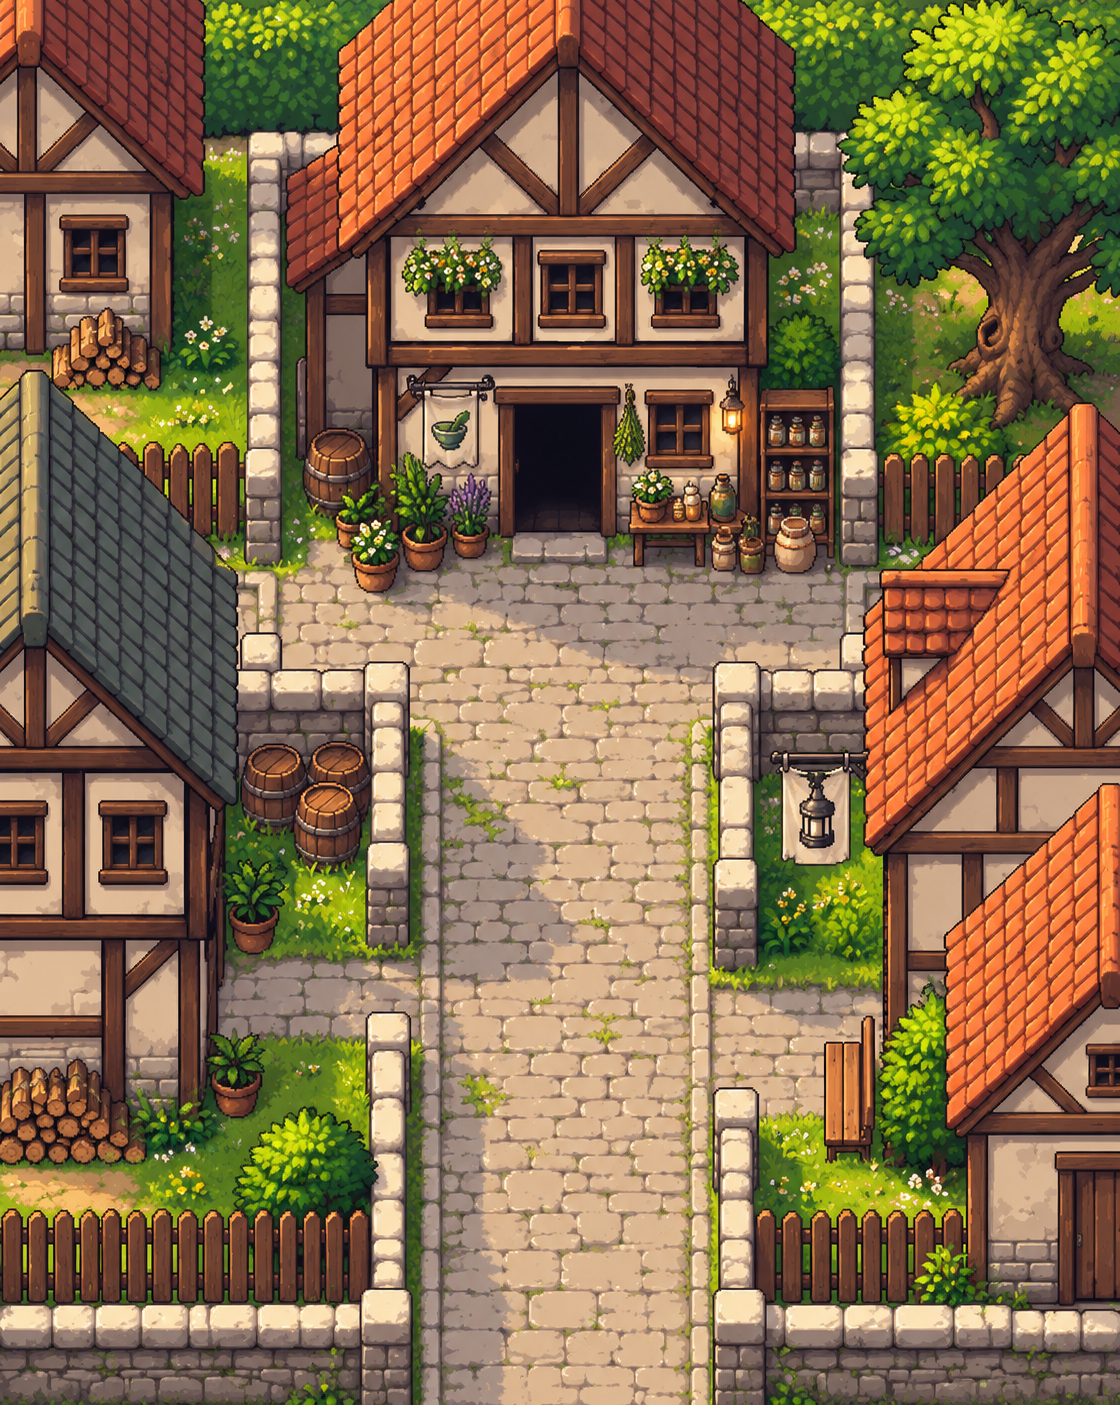
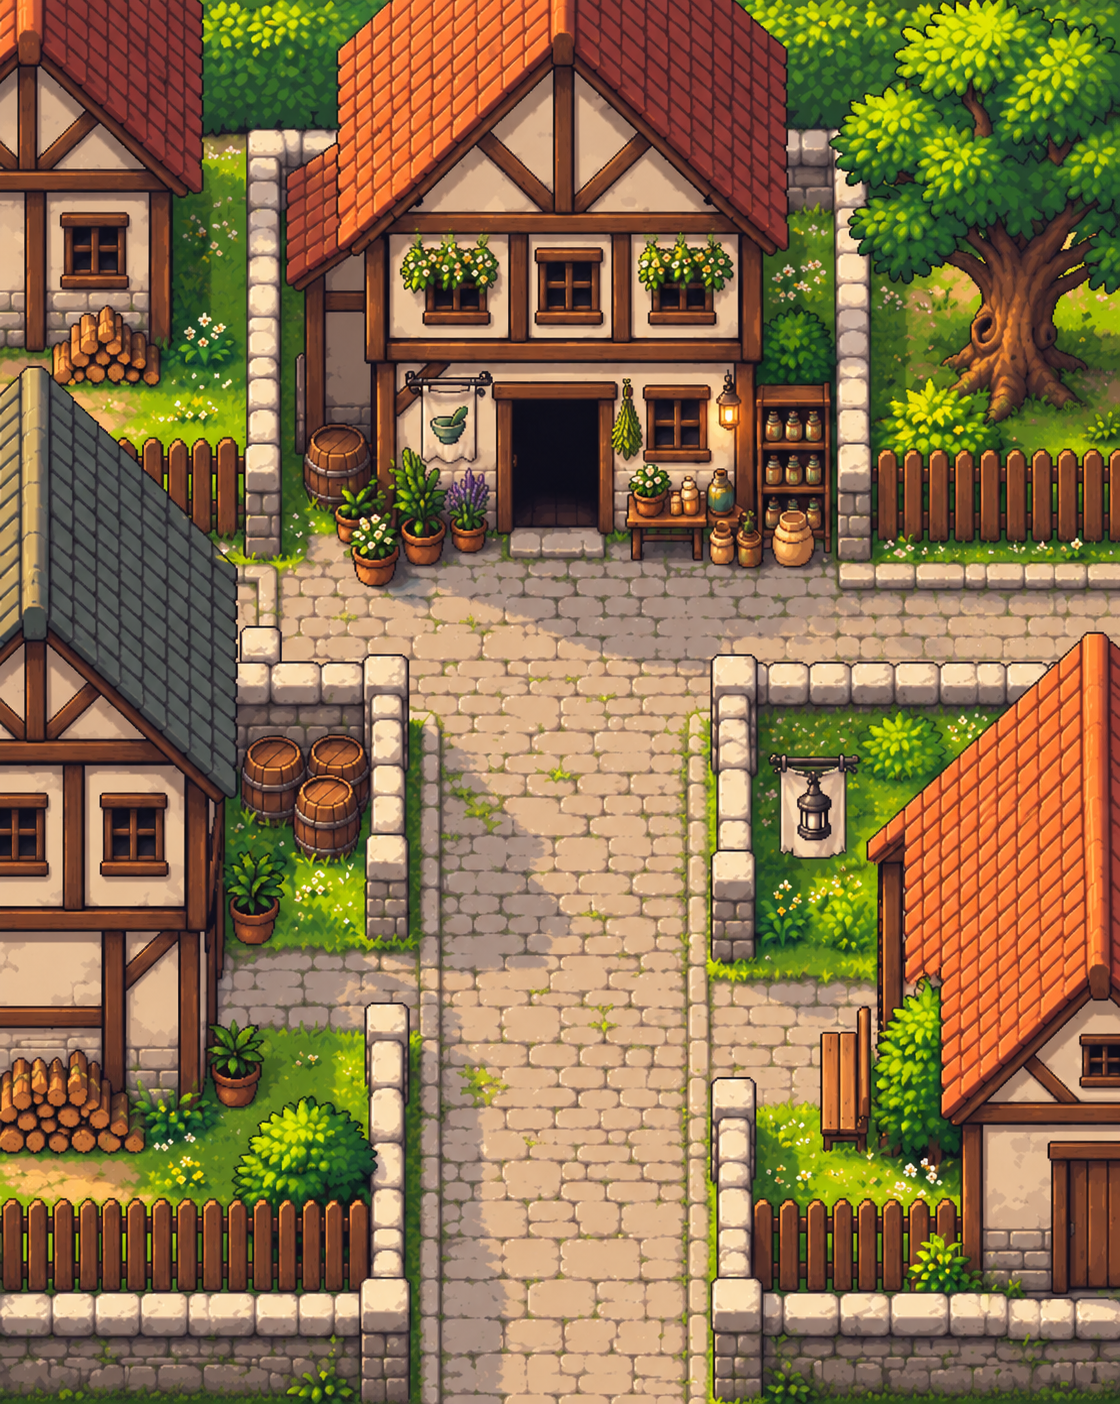
New apothecary-street and farm backgrounds (same geometry), botica-farm link on the map; miner points to the quarry camp; resting stonecutter replaces the man seen from behind

diff --git a/src/game/dialogue/chapter1Patient3Dialogues.ts b/src/game/dialogue/chapter1Patient3Dialogues.ts
@@ -25,6 +25,18 @@ const conversation = (
 // ---- the injured miner -----------------------------------------------------
 
 // Not examined yet: the conversation IS the examination.
+// Right after the examination the miner asks if the Doctor needs coal and points him to the quarry
+// camp, where the seated stonecutter gives it (2026-11-16, Kilian). New text, awaiting his review.
+export const INJURED_MINER_COAL_CALL_ID = "chapter1.mine.injuredMiner.coalCalled";
+export const INJURED_MINER_INSTANCE_ID = "mine-interior-injured-miner-01";
+export const injuredMinerCoalHint = conversation("mine.injuredMiner.coalHint", [
+  subject(
+    "¿Le hace falta carbón para el ungüento? Vaya al campamento de la cantera; allí se lo darán.",
+    "Do you need coal for the ointment? Go to the quarry camp; they'll give it to you there.",
+  ),
+  doctor("Gracias, iré a verlos.", "Thank you, I'll go and see them."),
+]);
+
 export const injuredMinerExam = conversation("mine.injuredMiner.exam", [
   subject("Ah... despacio. La pierna.", "Ah... easy. My leg."),
   doctor(
@@ -202,8 +214,8 @@ export const mountainMinerCoalReady = conversation("quarry.backMan.coal", [
   subject("¿Otra vez?", "Again?"),
   doctor("¿Otra vez? ¡Vaya!", "Again? Oh dear!"),
   subject(
-    "Le pasa por no saber cuándo parar. Yo, al menos, miro cómo trabajan los demás.",
-    "That's what comes of not knowing when to stop. I, at least, just watch the others work.",
+    "Le pasa por no saber cuándo parar. Yo, al menos, me siento cuando toca.",
+    "That's what comes of not knowing when to stop. I, at least, sit down when it's time.",
   ),
   doctor(
     "Eso ya me lo había parecido. Y por eso mismo necesito tu ayuda.",
@@ -234,8 +246,8 @@ export const mountainMinerCoalDone = conversation(
   "quarry.backMan.coalDone",
   [
     subject(
-      "Cuide de mi amigo. Y dígale que la próxima vez mire dónde pisa. Yo, desde aquí, lo vería venir.",
-      "Look after my friend. And tell him to watch where he steps next time. From here, I'd see it coming.",
+      "Cuide de mi amigo. Y dígale que la próxima vez mire dónde pisa. Yo, desde el suelo, lo vería venir.",
+      "Look after my friend. And tell him to watch where he steps next time. From down here, I'd see it coming.",
     ),
   ],
 );

diff --git a/src/game/dialogue/chapter1Dialogues.ts b/src/game/dialogue/chapter1Dialogues.ts
@@ -139,8 +139,8 @@ export const chapter1AmbientDialogues: Record<string, LocalizedConversation> =
         "By any chance, do you know where I could get a little clean coal?",
       ),
       subject(
-        "Pregunte al de la cantera, el que mira sin trabajar. Siempre guarda un poco para su hoguera.",
-        "Ask the one at the quarry, the man who watches and doesn't work. He always keeps a little for his fire.",
+        "Pregunte en el campamento de la cantera, al que descansa sentado en el suelo. Siempre guarda un poco para su hoguera.",
+        "Ask at the quarry camp, the one resting on the ground. He always keeps a little for his fire.",
       ),
     ]),
     // Witch at the bar: her real conversations live in storyInteractions.ts.
@@ -260,15 +260,17 @@ export const chapter1AmbientDialogues: Record<string, LocalizedConversation> =
         "An apple a day. For the rest, you're the doctor.",
       ),
     ]),
+    // The stonecutter resting on the ground (2026-11-16: he replaced the man seen from behind). New
+    // text, awaiting Kilian's review.
     conversation("chapter1.quarry.backMan", [
       subject(
-        "No se vuelva, doctor. Estoy mirando cómo parten la piedra y me da vergüenza que se note.",
-        "Don't turn me around, doctor. I'm watching them split the stone and I'd hate for it to show.",
+        "Perdone que no me levante, doctor. Hoy la piedra ha ganado.",
+        "Forgive me for not getting up, doctor. The stone won today.",
       ),
-      doctor("¿Mirar trabajar a otros es un oficio?", "Is watching others work a trade?"),
+      doctor("¿Tan duro ha sido el día?", "Has the day been that hard?"),
       subject(
-        "Es el único que llevo bien. Y ellos trabajan más contentos con público.",
-        "It's the only one I'm good at. And they work happier with an audience.",
+        "Duro, no. Largo. Por eso me siento, a ver si se acorta.",
+        "Not hard: long. That's why I sit down, to see if it gets shorter.",
       ),
     ]),
     // The quarry camp (2026-11-15). New text, awaiting Kilian's review.

diff --git a/src/game/new-world-map/newWorldVisuals.ts b/src/game/new-world-map/newWorldVisuals.ts
@@ -37,10 +37,12 @@ export const NEW_WORLD_VISUALS: DevScene[] = [
     id: "apothecary-street",
     label: "Calle Botica (nuevo mundo)",
     backgroundSrc: `${DIR}/apothecary-street-background.png`,
+    // 2026-11-16: repainted with the new road to the east (1120x1404; it was 1120x1405). Same
+    // geometry: the logical world keeps its size.
     assetWidth: 1120,
-    assetHeight: 1405,
+    assetHeight: 1404,
     initialAssetX: 555,
-    initialAssetY: 1260,
+    initialAssetY: 1259,
     logicalUnitsPerAssetPixel: 0.65,
     colliders: apothecaryStreetColliders,
   },
@@ -103,11 +105,14 @@ export const NEW_WORLD_VISUALS: DevScene[] = [
     id: "farm",
     label: "Granja (nuevo mundo)",
     backgroundSrc: `${DIR}/farm-background.png`,
-    assetWidth: 1581,
-    assetHeight: 945,
-    initialAssetX: 90,
-    initialAssetY: 850,
-    logicalUnitsPerAssetPixel: 1.2,
+    // 2026-11-16: repainted with the cobbled road to the west (1624x969; it was 1581x945, 2.7%
+    // smaller). The scale is lowered so the logical HEIGHT stays 1134 (1.2 * 945 / 969; the width
+    // grows 3 units): every collider, transition and decor keeps its place.
+    assetWidth: 1624,
+    assetHeight: 969,
+    initialAssetX: 92,
+    initialAssetY: 873,
+    logicalUnitsPerAssetPixel: 1.1703,
     colliders: farmColliders,
   },
   {

diff --git a/src/game/world/GameWorld.tsx b/src/game/world/GameWorld.tsx
@@ -15,7 +15,8 @@ import {
 
 import { ApothecaryScene } from "../apothecary/ApothecaryScene";
 import { BARTENDER_CALL_ID, BARTENDER_INSTANCE_ID, bartenderCall } from "../dialogue/chapter1TavernDialogues";
-import { TAVERN_PATIENT_ID } from "../patients/chapter1Patients";
+import { INJURED_MINER_ID, TAVERN_PATIENT_ID } from "../patients/chapter1Patients";
+import { INJURED_MINER_COAL_CALL_ID, INJURED_MINER_INSTANCE_ID, injuredMinerCoalHint } from "../dialogue/chapter1Patient3Dialogues";
 import { playSound } from "../audio/audioPlayer";
 import { useLoopMusic } from "../audio/useLoopMusic";
 import { BookOverlay } from "../book/BookOverlay";
@@ -1152,6 +1153,10 @@ export function GameWorld({
       // The bartender calls the Doctor over (she has heard he needs milk); once.
       claimFlag(BARTENDER_CALL_ID);
       startDialogue(localizeConversation(bartenderCall, language, BARTENDER_INSTANCE_ID));
+    } else if (patientId === INJURED_MINER_ID && !claimedRewardsRef.current.has(INJURED_MINER_COAL_CALL_ID)) {
+      // The miner points the Doctor to the quarry camp for coal; once.
+      claimFlag(INJURED_MINER_COAL_CALL_ID);
+      startDialogue(localizeConversation(injuredMinerCoalHint, language, INJURED_MINER_INSTANCE_ID));
     }
   }, [language, startDialogue, startTransition, claimFlag]);
 

diff --git a/src/game/decor/decorAssets.ts b/src/game/decor/decorAssets.ts
@@ -879,6 +879,25 @@ const BASE_DECOR_ASSETS: DecorAsset[] = [
     defaultCollider: { offsetX: -15, offsetY: -80, width: 27, height: 67 },
   },
   {
+    id: "stonecutter-resting",
+    label: "Stonecutter resting on the ground",
+    category: "people",
+    sprite: {
+      // 2026-11-16 (PixelLab, from the stool stonecutter): sits on the bare ground resting, eyes closed.
+      // Replaces the man seen from behind at the quarry camp (he gives the coal). Five pictures played
+      // back and forth (0 1 2 3 4 3 2 1): a slow breath, the head lifts a little.
+      frames: [0, 1, 2, 3, 4, 3, 2, 1].map((i) => `/game/npcs/stonecutter-resting/idle/${i}.png`),
+      frameWidth: 96,
+      frameHeight: 96,
+      fps: 4,
+      loop: true,
+    },
+    anchor: { x: 0.5, y: 1 },
+    defaultScale: 1,
+    // Silhouette of frame 0 (x22-73 y22-79 of the 96x96 frame).
+    defaultCollider: { offsetX: -26, offsetY: -74, width: 52, height: 58 },
+  },
+  {
     id: "villager-back-woman",
     label: "Villager woman from behind",
     category: "people",

diff --git a/src/game/compositions/chapter-1.interactions.ts b/src/game/compositions/chapter-1.interactions.ts
@@ -147,10 +147,11 @@ export const chapter1Interactions: Record<string, DecorInteraction> = {
     interactionId: "chapter1.tavernStreet.seller",
     zone: { offsetX: 122, offsetY: -35, width: 119, height: 27 },
   },
-  // The man standing with his back to us at the quarry (villager-back-man).
+  // The stonecutter resting on the ground at the quarry camp (he gives the coal; he used to be the
+  // man seen from behind, hence the id). The zone is the seated man's silhouette grown by 16.
   "quarry-villager-back-man-01": {
     interactionId: "chapter1.quarry.backMan",
-    zone: { offsetX: -33, offsetY: -95, width: 60, height: 111 },
+    zone: { offsetX: -42, offsetY: -90, width: 84, height: 106 },
   },
   // The rest of the quarry camp (2026-11-15). Zones by analogy with the same sprites elsewhere
   // (the woman is the tavern street's villager-woman-02, the shovel man stands like the back man, the

diff --git a/src/game/new-world-map/newWorldCompositions.ts b/src/game/new-world-map/newWorldCompositions.ts
@@ -477,7 +477,9 @@ export const newWorldChapter1Compositions: DecorComposition[] = [
       },
       {
         instanceId: "quarry-villager-back-man-01",
-        assetId: "villager-back-man",
+        // (the id keeps its old name: it is the coal giver. Since 2026-11-16 he is the stonecutter
+        // resting on the ground, no longer the man seen from behind.)
+        assetId: "stonecutter-resting",
         x: 273,
         y: 497,
         scale: 1,

diff --git a/src/game/map/mapLocations.ts b/src/game/map/mapLocations.ts
@@ -62,6 +62,8 @@ export const MAP_LOCATIONS: MapLocation[] = [
 // Paths between places (undirected), following the real connections.
 export const MAP_LINKS: [MapLocationId, MapLocationId][] = [
   ["pharmacy", "plaza"],
+  // The new road from the apothecary street to the farm (2026-11-16): a short cut east.
+  ["pharmacy", "farm"],
   ["plaza", "bakery"],
   ["plaza", "smithy"],
   ["smithy", "mountain"],

diff --git a/docs/TEXTOS_NUEVOS_ES_EN.md b/docs/TEXTOS_NUEVOS_ES_EN.md
@@ -307,3 +307,38 @@ el fichero). Generado desde el código, así que lo que ves aquí es lo que sale
 | personaje | Como todo lo bueno de esta calle. Aquí tiene sus nueve monedas. | Like everything good on this street. Here are your nine coins. |
 | doctor | ¿Se la bebe usted? | Will you drink it yourself? |
 | personaje | Yo no. La guardo para el próximo que salga de la taberna arrepentido. | Not me. I'm keeping it for the next one who walks out of the tavern full of regret. |
+
+## 9. Guía del día 1 (2026-11-15 y 16)
+
+### Minero herido tras el diagnóstico (chapter1Patient3Dialogues.ts)
+
+| Quién | Español | English |
+|---|---|---|
+| personaje | ¿Le hace falta carbón para el ungüento? Vaya al campamento de la cantera; allí se lo darán. | Do you need coal for the ointment? Go to the quarry camp; they'll give it to you there. |
+| personaje | Gracias, iré a verlos. | Thank you, I'll go and see them. |
+
+### Tabernera: llamada y jarra (chapter1TavernDialogues.ts)
+
+| Quién | Español | English |
+|---|---|---|
+| personaje | Doctor, venga aquí. | Doctor, come over here. |
+| personaje | He escuchado que necesita leche. Tome, llévese esta jarra y hable con mi hermana, en la granja. | I heard you need milk. Here, take this jar and talk to my sister at the farm. |
+| personaje | Se lo agradezco. Iré a verla enseguida. | Thank you. I'll go and see her right away. |
+
+### Cantero descansando en el suelo (nuevo, sustituye al de espaldas)
+
+| Quién | Español | English |
+|---|---|---|
+| personaje | Perdone que no me levante, doctor. Hoy la piedra ha ganado. | Forgive me for not getting up, doctor. The stone won today. |
+| doctor | ¿Tan duro ha sido el día? | Has the day been that hard? |
+| personaje | Duro, no. Largo. Por eso me siento, a ver si se acorta. | Not hard: long. That's why I sit down, to see if it gets shorter. |
+
+### Minero del camino (pista del carbón cambiada)
+
+| Quién | Español | English |
+|---|---|---|
+| personaje | Si viene buscando trabajo, ha elegido mal la ropa. | If you're here looking for work, you picked the wrong clothes. |
+| doctor | No vengo buscando trabajo, solo a saludar. | I'm not looking for work, just saying hello. |
+| personaje | Entonces ha elegido muy bien la ropa. | Then you picked exactly the right clothes. |
+| doctor | Por casualidad, ¿sabe dónde conseguir un poco de carbón limpio? | By any chance, do you know where I could get a little clean coal? |
+| personaje | Pregunte en el campamento de la cantera, al que descansa sentado en el suelo. Siempre guarda un poco para su hoguera. | Ask at the quarry camp, the one resting on the ground. He always keeps a little for his fire. |
